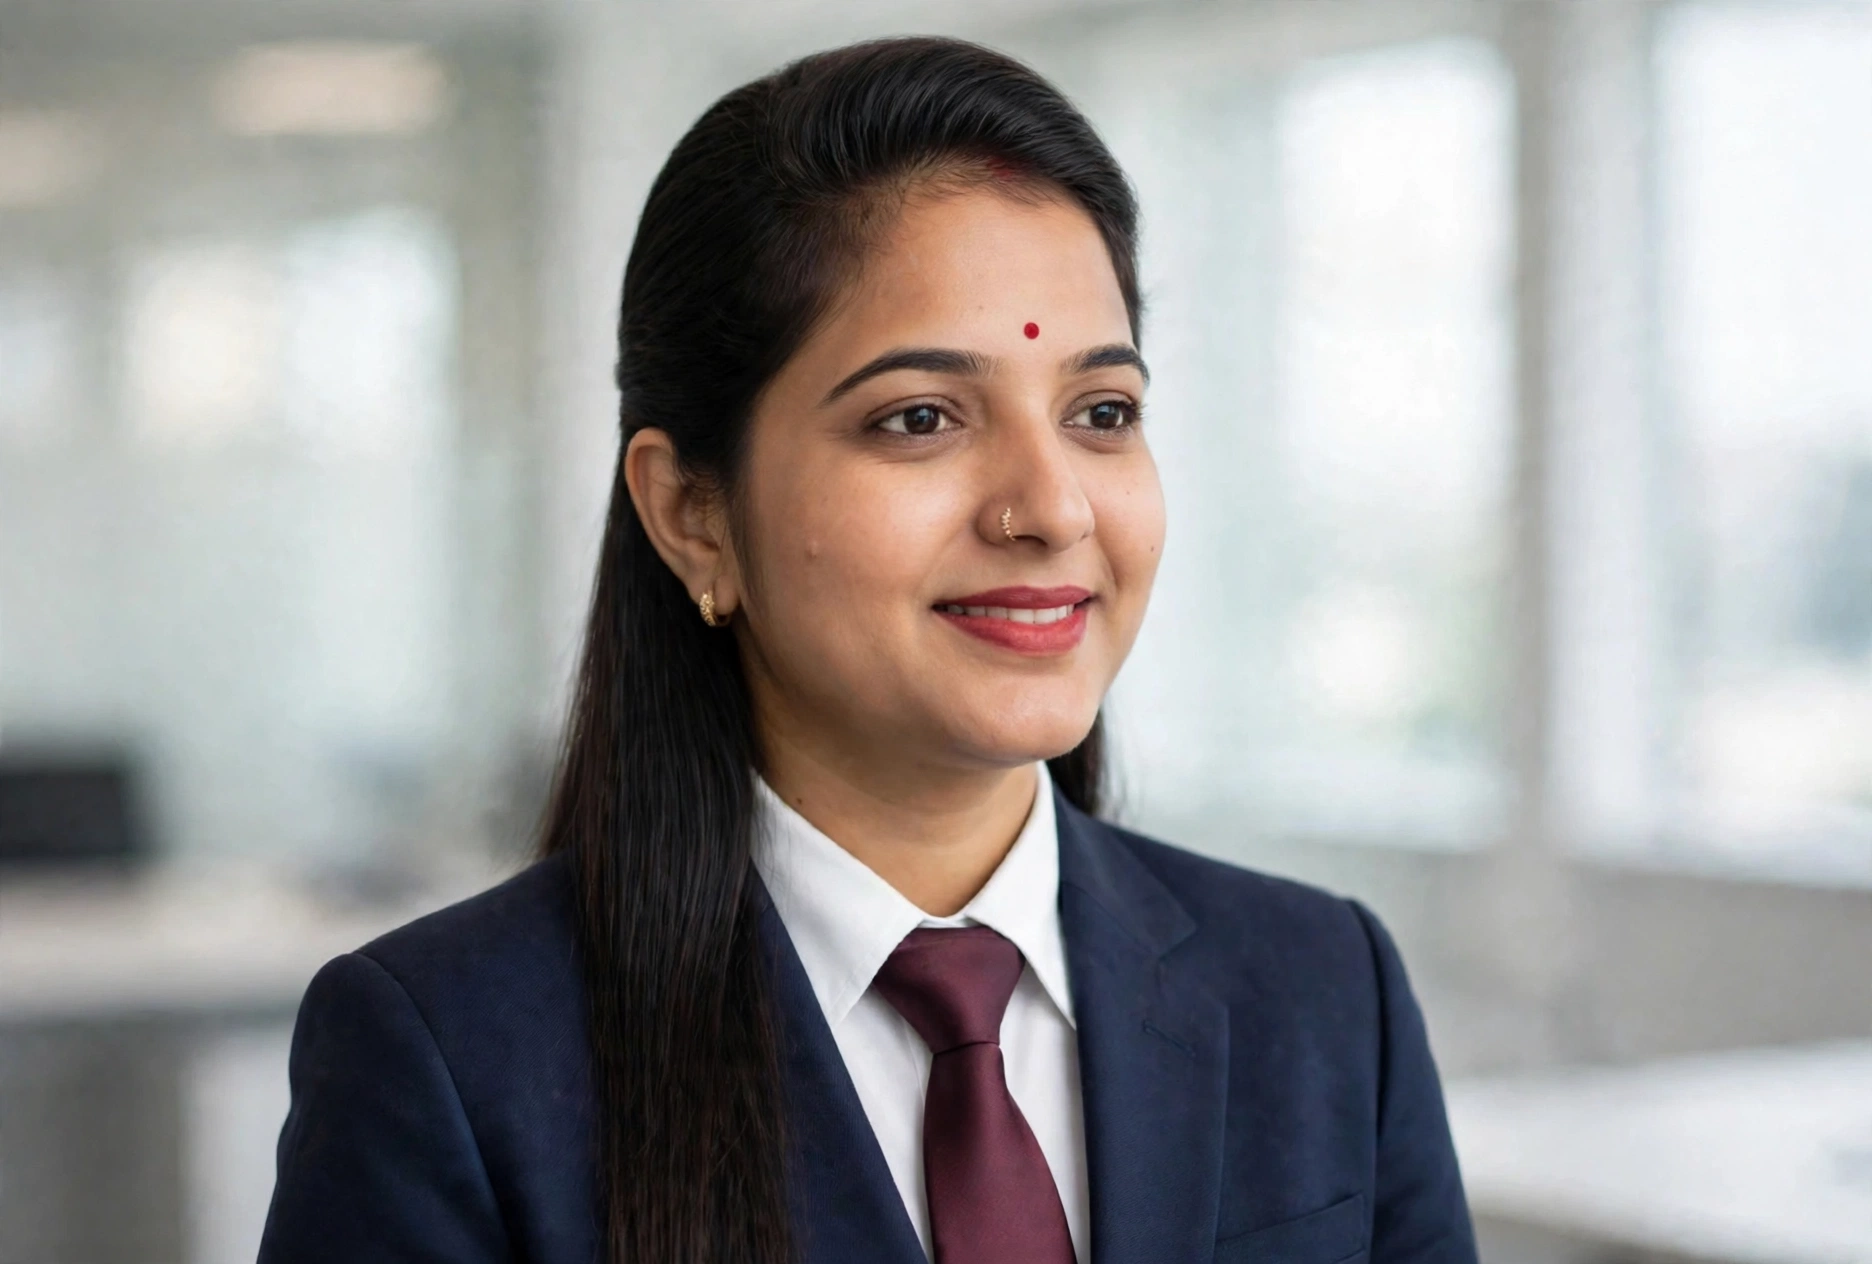
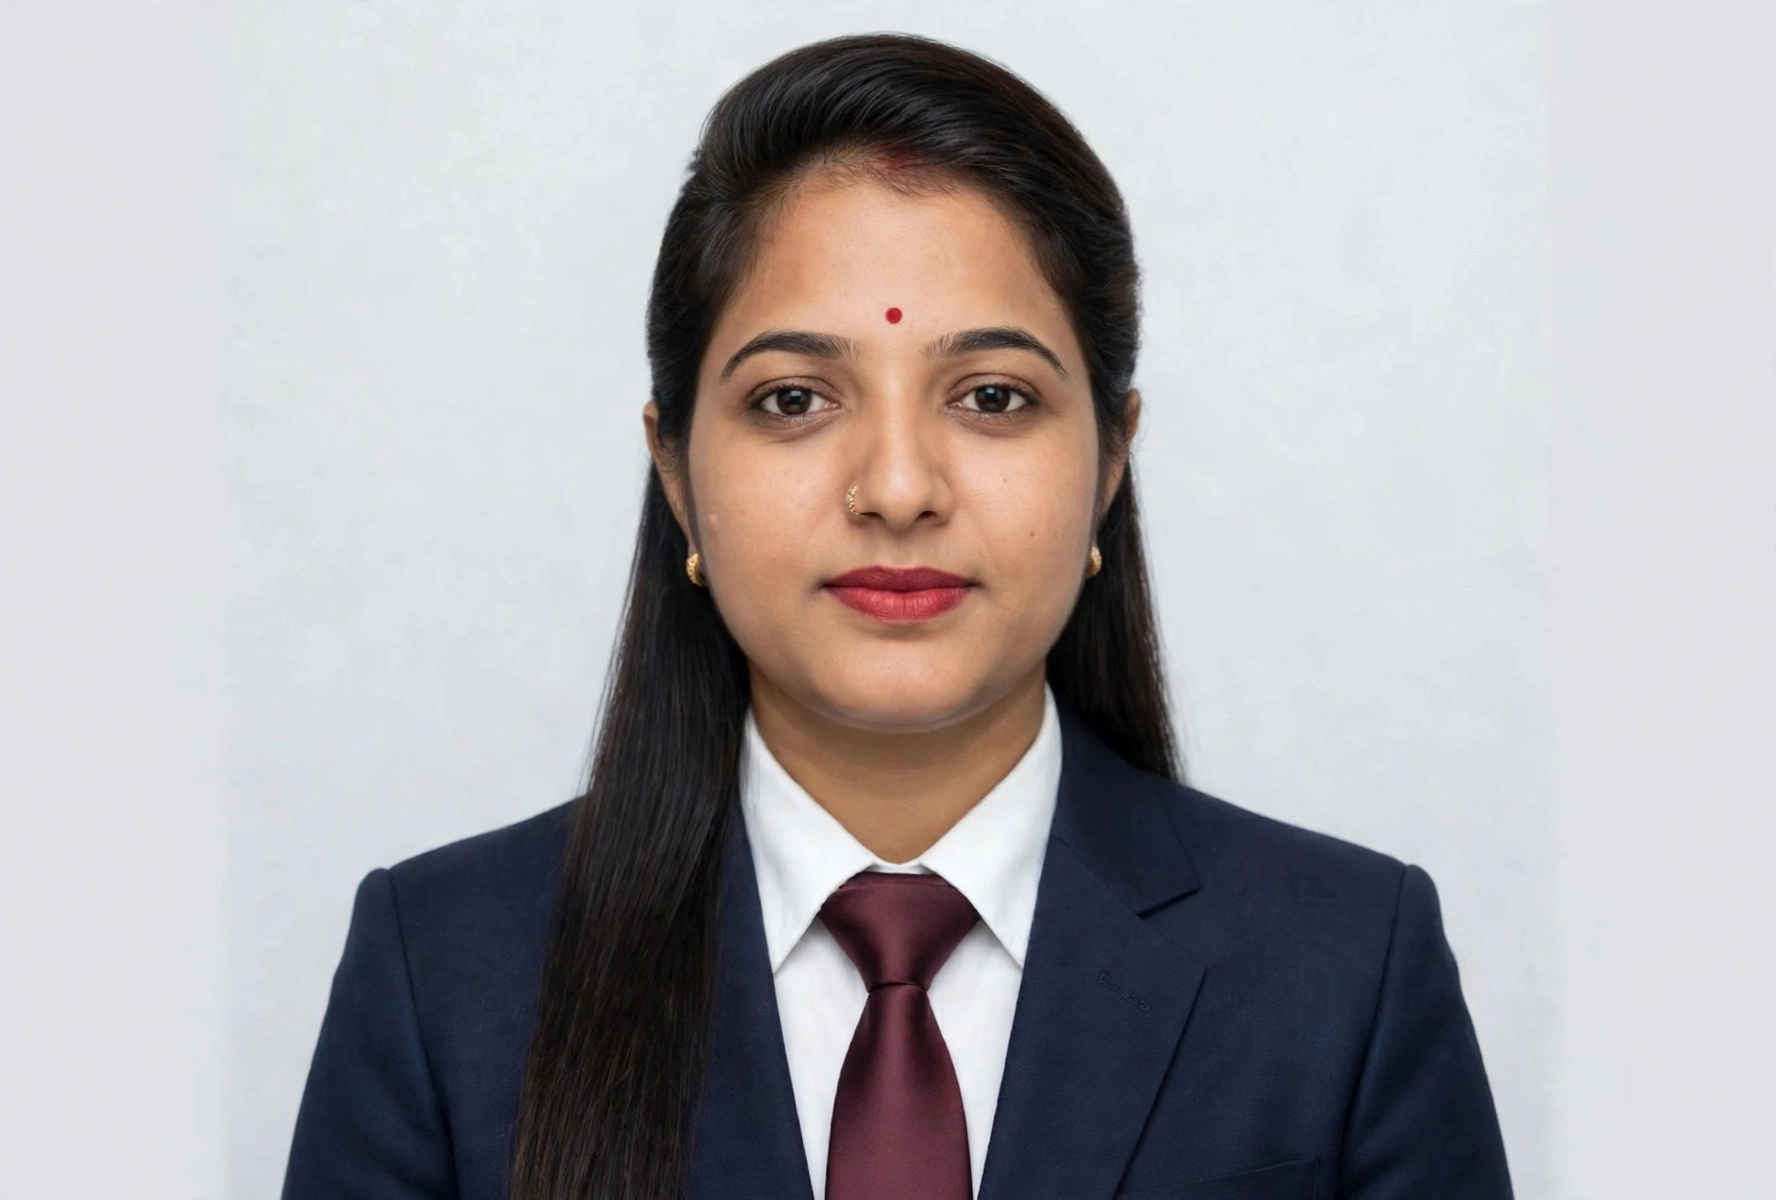
change ui

diff --git a/index.html b/index.html
@@ -47,11 +47,18 @@
       </nav>
 
       <!-- CTA Button & Mobile Toggle -->
-      <div class="flex items-center gap-3">
-        <button onclick="openModal('Enquiry Form')" class="bg-brand-pink hover:bg-brand-pinkHover text-white font-extrabold px-6 py-2.5 rounded-full shadow-md hover:shadow-playful transform active:scale-95 transition-all text-sm tracking-wide flex items-center gap-2">
-          <span>Enquire Now</span>
-          <i class="fa-solid fa-sparkles text-yellow-300"></i>
-        </button>
+      <div class="flex items-center gap-2">
+        
+<button onclick="openModal('Enquiry Form')"
+    class="bg-brand-pink hover:bg-brand-pinkHover text-white font-extrabold
+           px-2 py-1 md:px-6 md:py-2
+           rounded-full shadow-md hover:shadow-playful
+           transform active:scale-95 transition-all
+           text-sm tracking-wide flex items-center gap-2">
+    <span>Enquire Now</span>
+    <i class="fa-solid fa-sparkles text-yellow-300"></i>
+</button>
+
         <!-- Mobile Hamburger Button -->
         <button onclick="toggleMobileMenu()" class="lg:hidden p-2 rounded-xl text-slate-600 hover:bg-slate-100 focus:outline-none">
           <i class="fa-solid fa-bars-staggered text-xl"></i>
